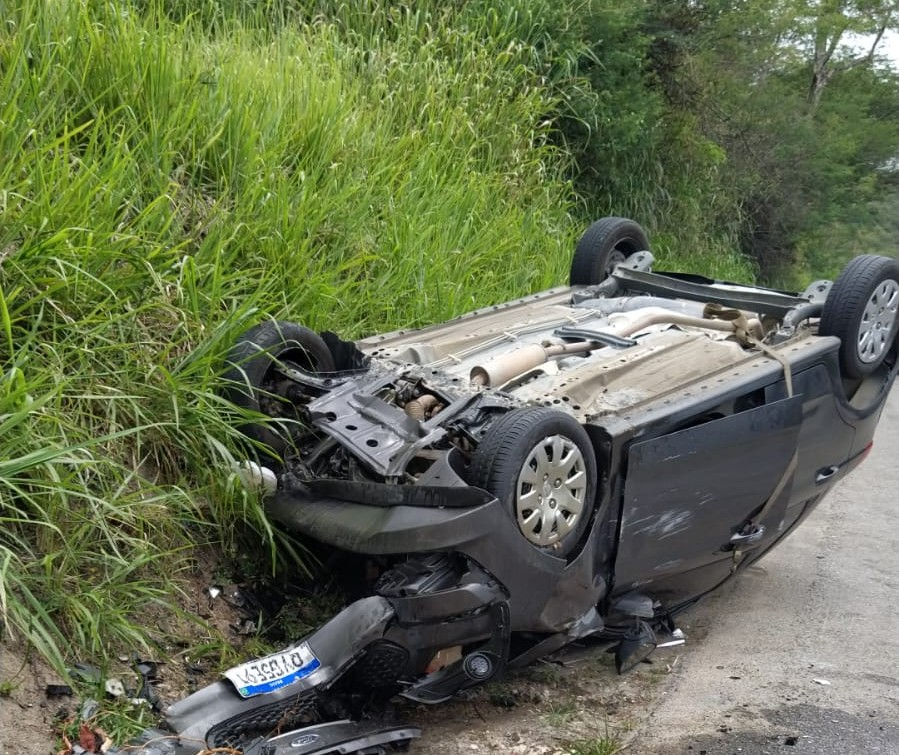
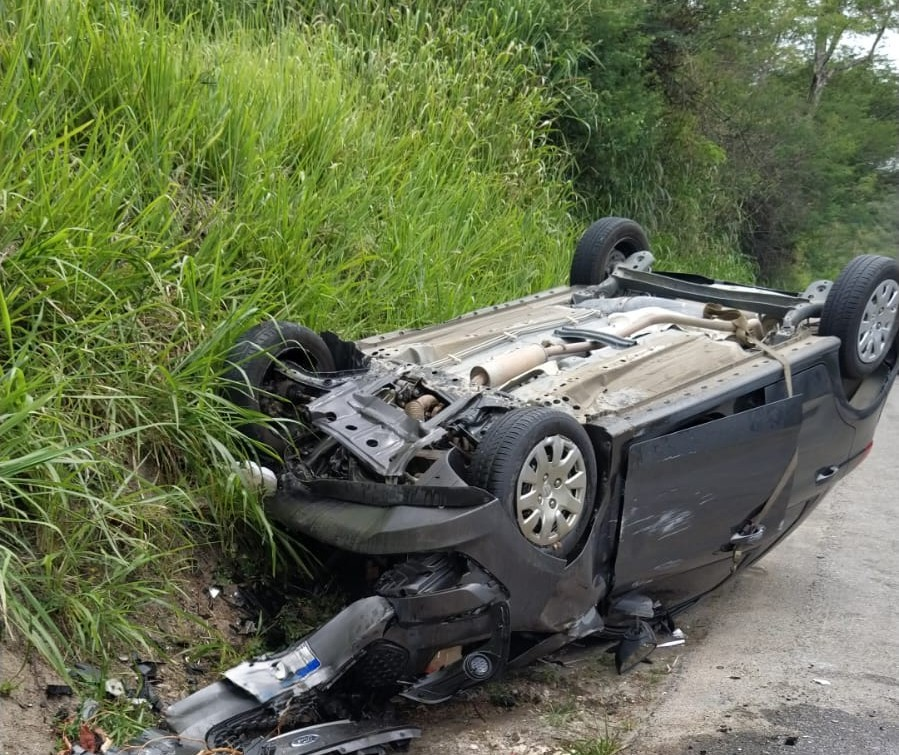
feat: add imagens ao depoimento

Changed region(s): [[0.2492, 0.853, 0.3737, 0.9748]]

diff --git a/index.html b/index.html
@@ -195,19 +195,19 @@
         <p class="testimonials__subtitle">Experiências reais de quem confia na Carneiro Seguros</p>
         <div class="testimonials__grid">
           <article class="testimonial-card">
-            <img class="testimonial-card__avatar" src="imgs/img-depo1.jpeg" alt="">
+            <img class="testimonial-card__avatar" src="imgs/img-depo1.jpeg" alt="imagem testimonial de joão com carro capotado">
             <blockquote class="testimonial-card__message">"Meu carro deu perca total em acidente e fui indenizado em curto prazo"</blockquote>
             <cite class="testimonial-card__author">João</cite>
           </article>
           <article class="testimonial-card">
-            <img class="testimonial-card__avatar" src="imgs/logo.png" alt="">
-            <blockquote class="testimonial-card__message">"Tive uma colisão com 3 carros e meu carro voltou zerado em pouco tempo. Tudo graças à Carneiro Seguros"</blockquote>
-            <cite class="testimonial-card__author">Antônio</cite>
-          </article>
-          <article class="testimonial-card">
-            <img class="testimonial-card__avatar" src="imgs/logo.png" alt="">
+            <img class="testimonial-card__avatar" src="imgs/img-depo2.jpg" alt="imagem testimonial de maria">
             <blockquote class="testimonial-card__message">"O seguro de vida me garantiu o capital segurado do diagnóstico de doenças graves e pude ser indenizada do tratamento de CA"</blockquote>
             <cite class="testimonial-card__author">Maria</cite>
+          </article>
+          <article class="testimonial-card">
+            <img class="testimonial-card__avatar" src="imgs/img-depo3.jpg" alt="imagem testimonial de Antonio com carro batido">
+            <blockquote class="testimonial-card__message">"Tive uma colisão com 3 carros e meu carro voltou zerado em pouco tempo. Tudo graças à Carneiro Seguros"</blockquote>
+            <cite class="testimonial-card__author">Antônio</cite>
           </article>
         </div>
       </div>